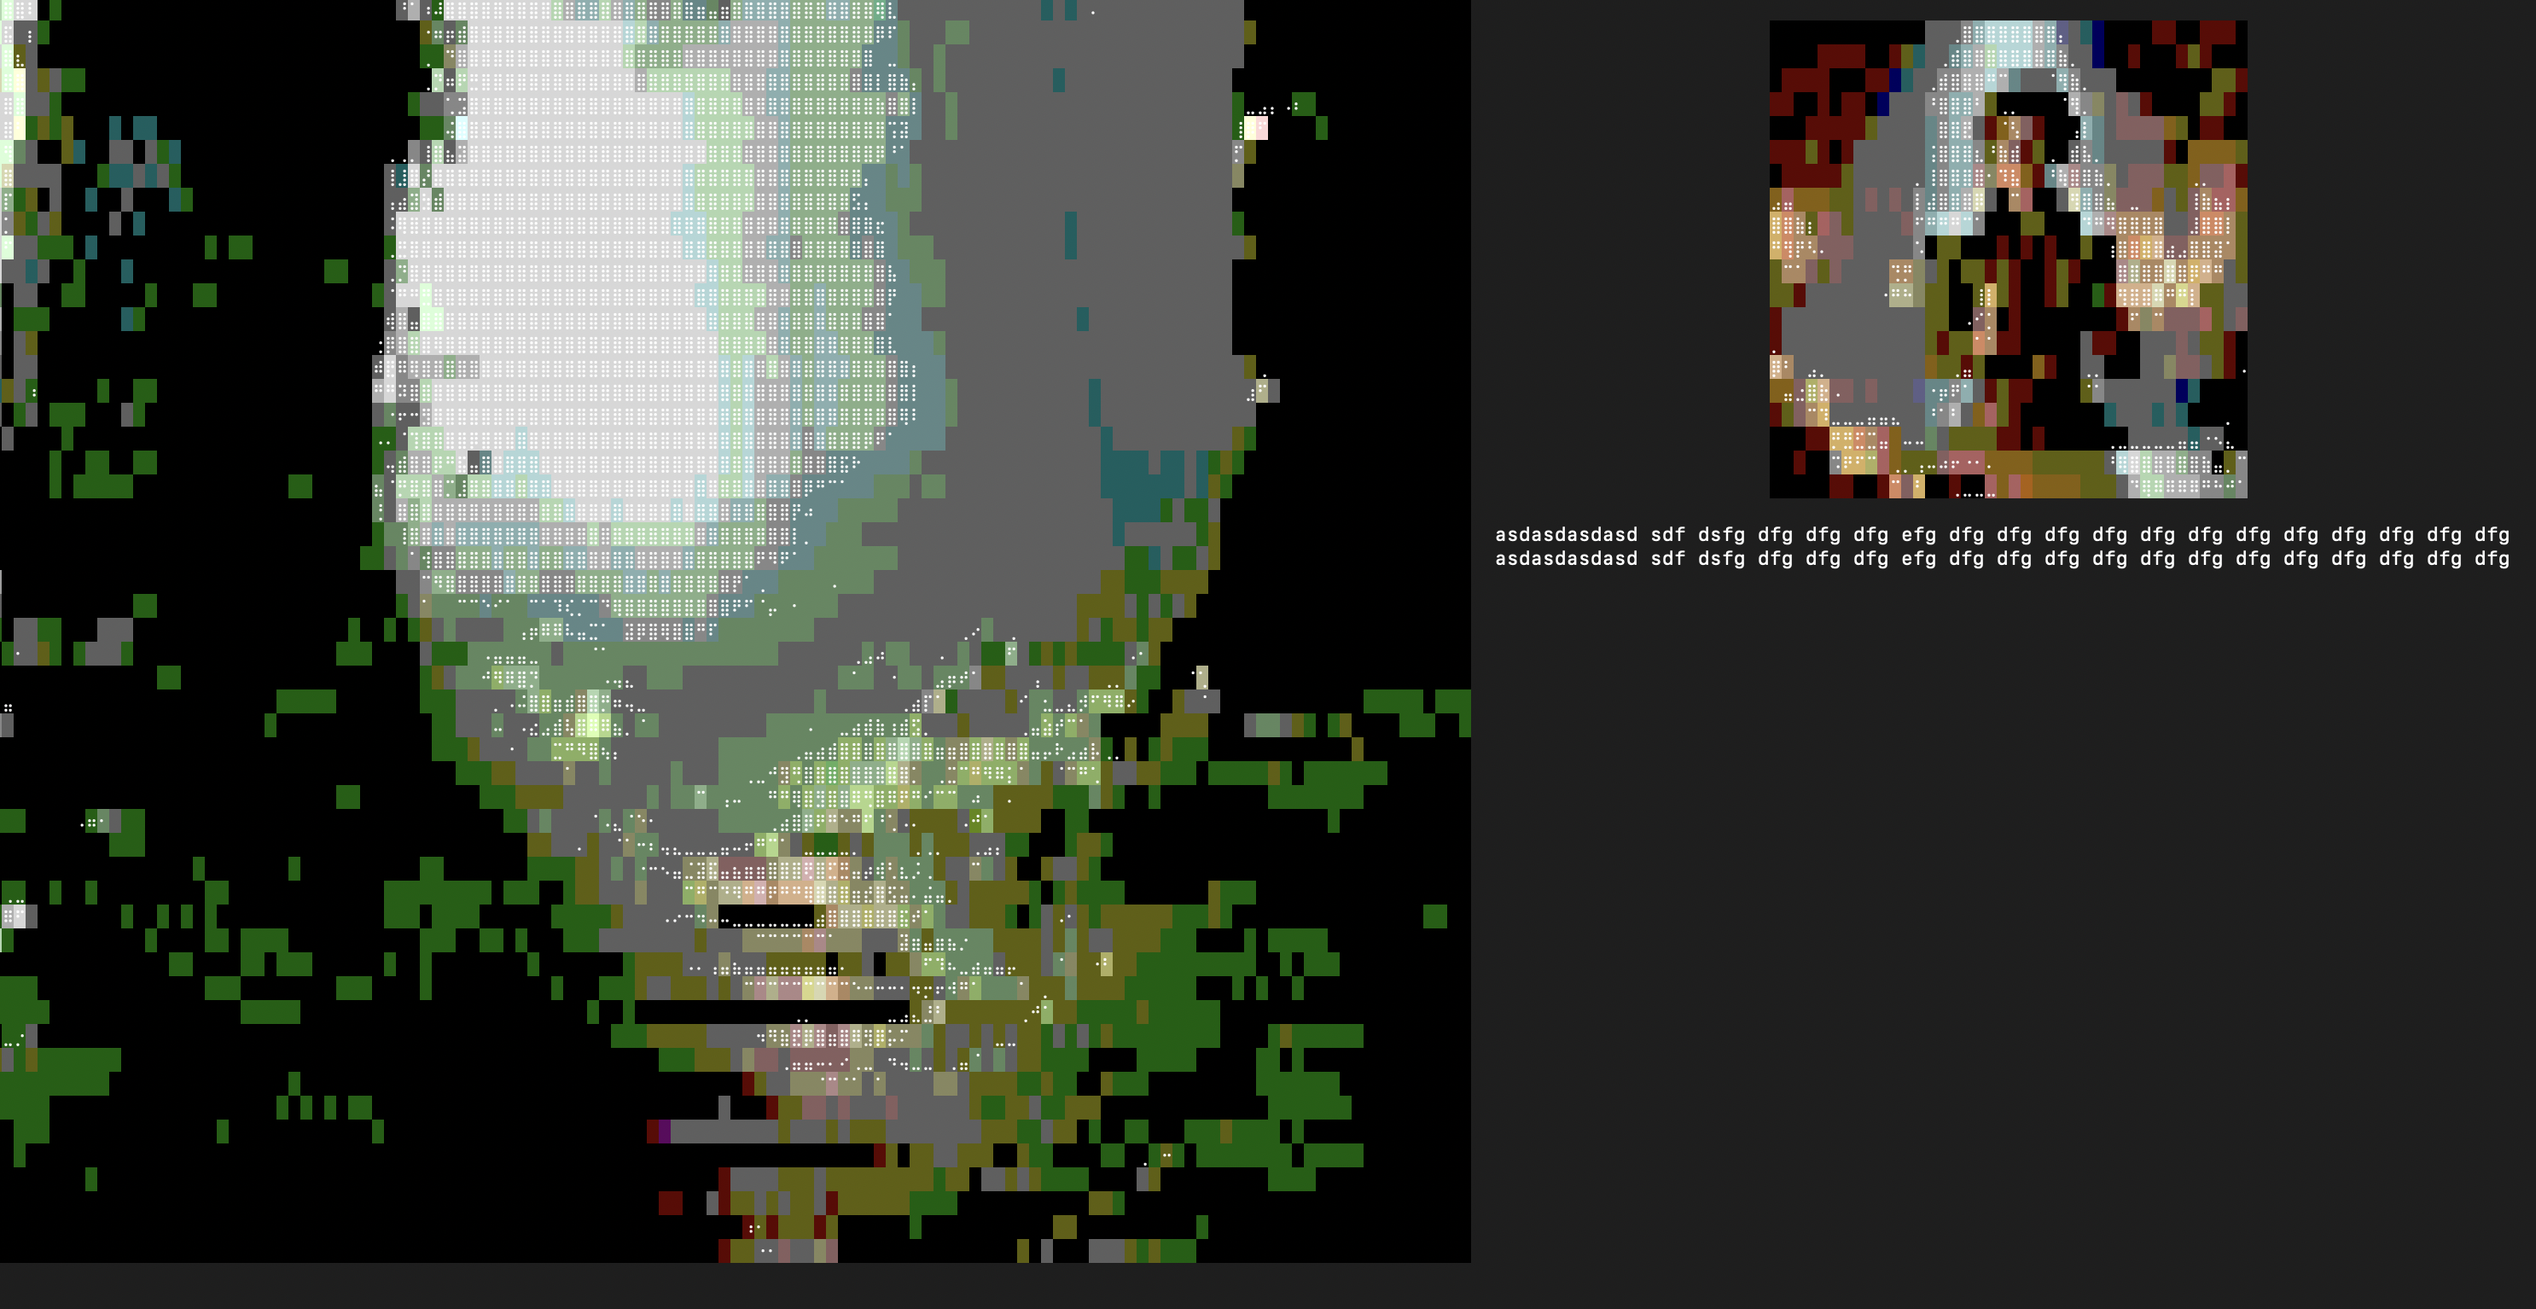
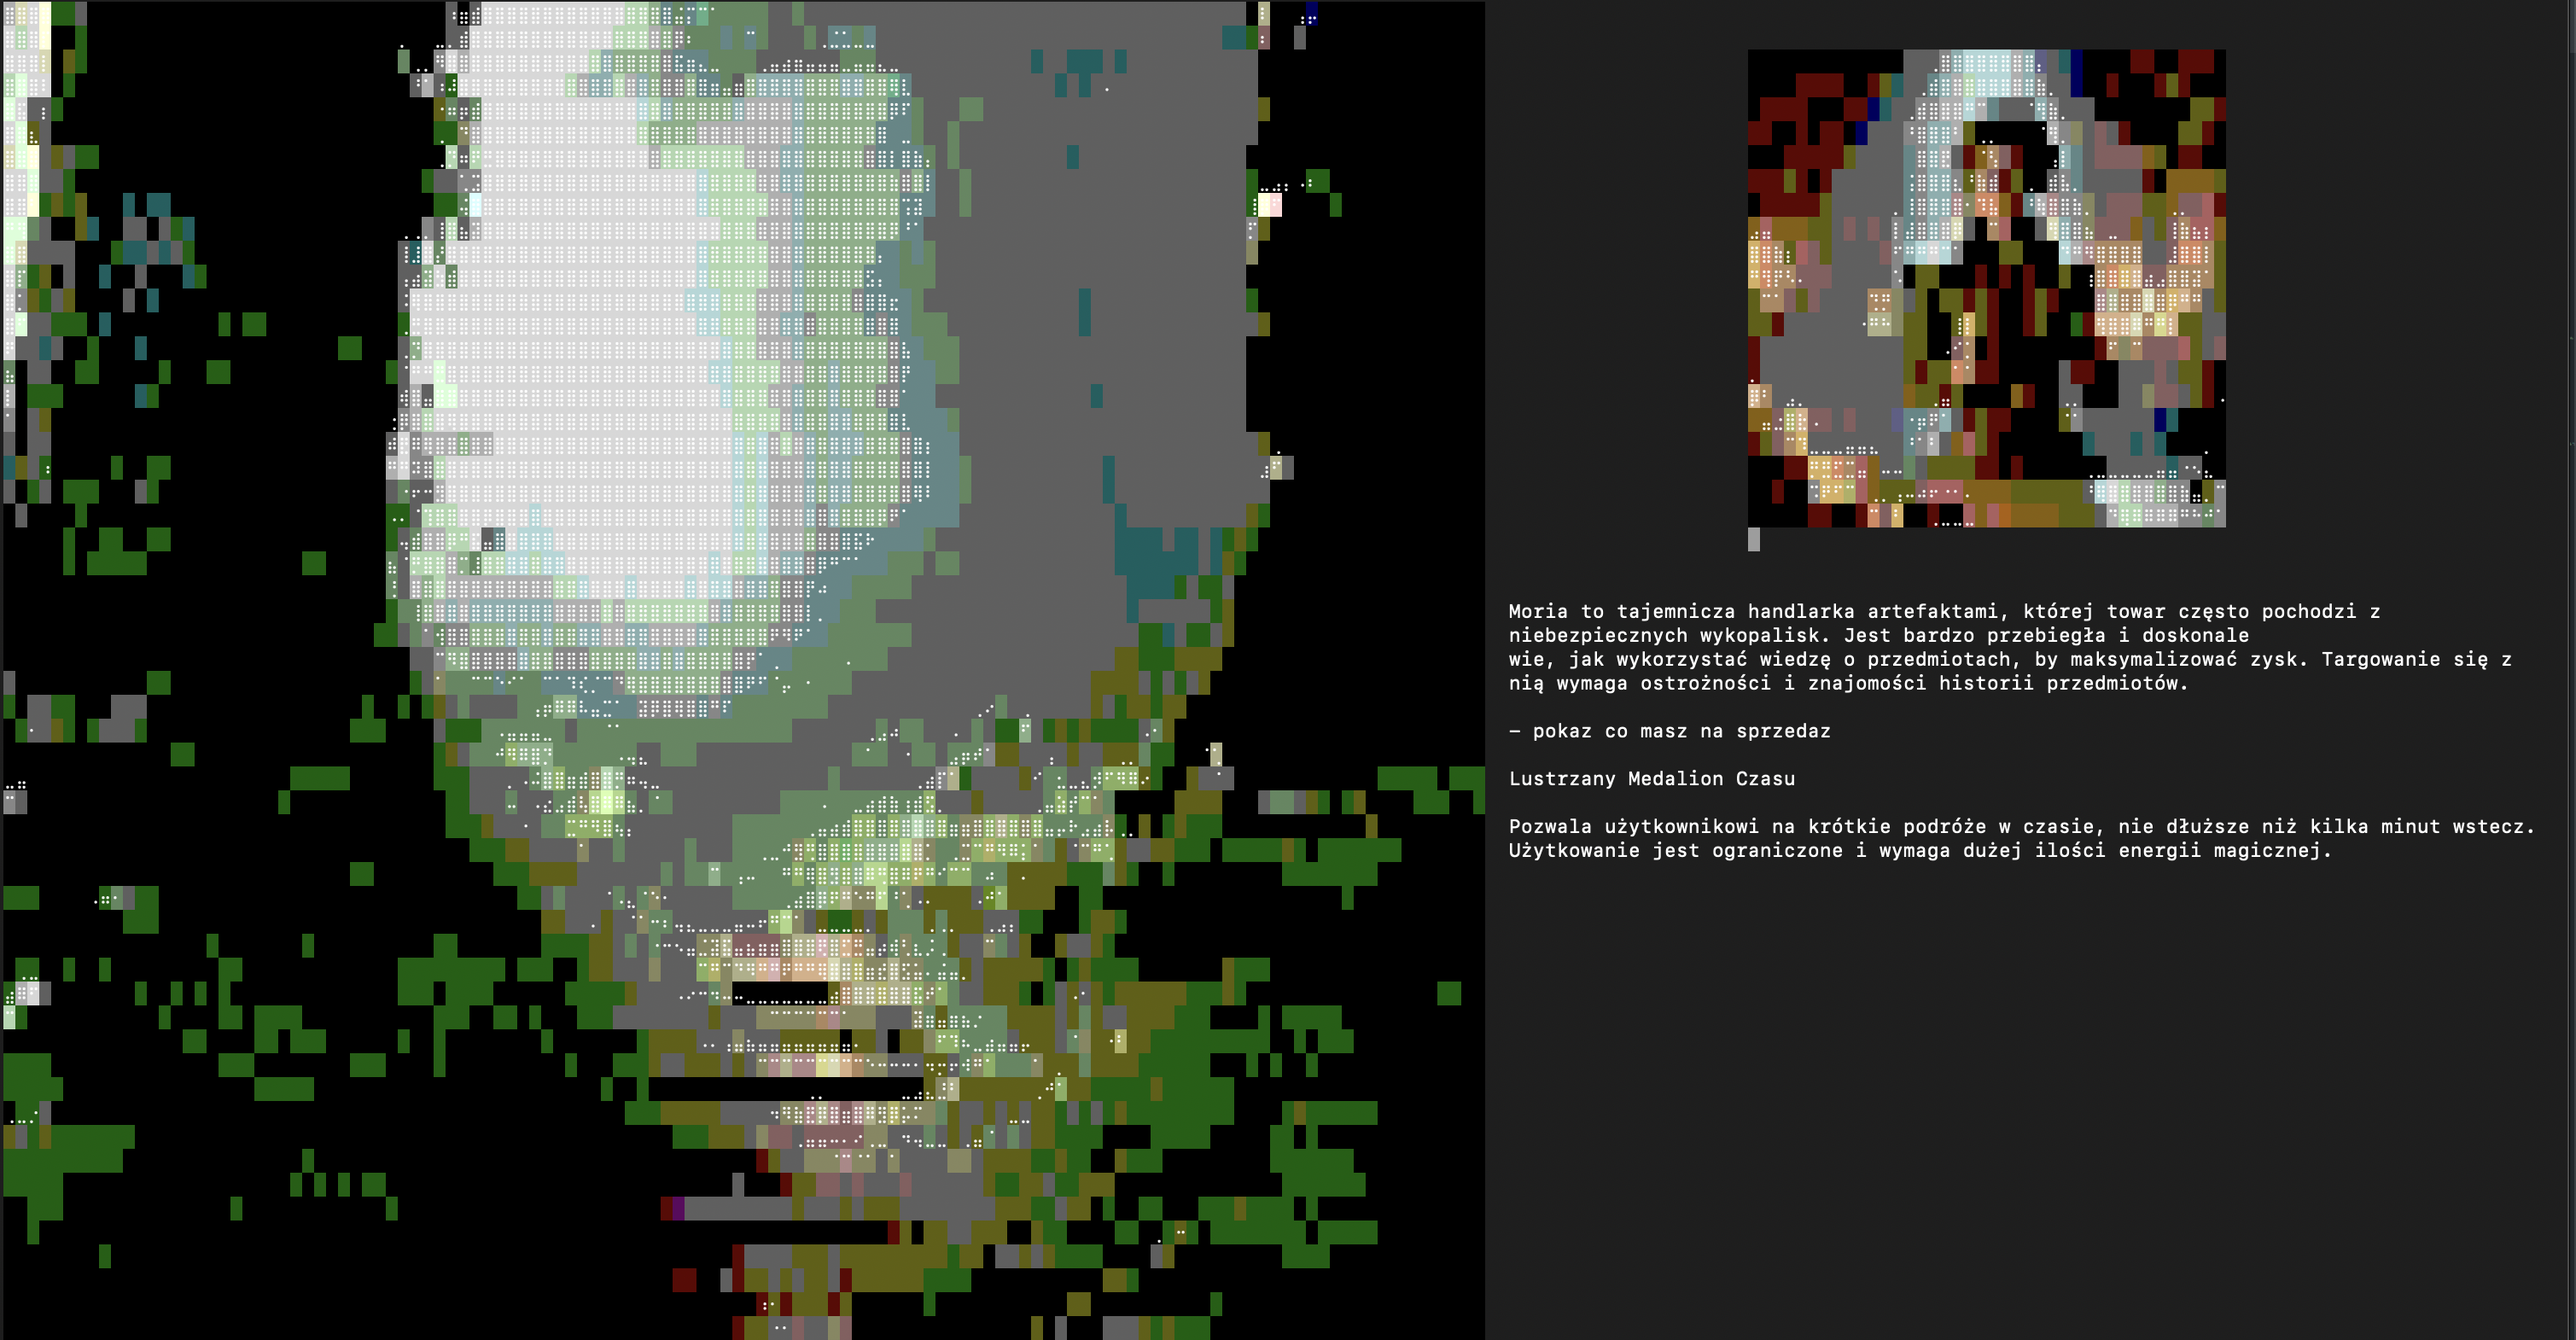
Day 6 - enhance console manager

diff --git a/src/CLI/Console/ConsoleManager.php b/src/CLI/Console/ConsoleManager.php
@@ -10,39 +10,46 @@ use Symfony\Component\Console\Style\SymfonyStyle;
 
 class ConsoleManager
 {
-	private int $screenWidth = 0;
-	private int $screenHeight = 0;
+    private int $screenWidth = 0;
+    private int $screenHeight = 0;
+    private array $buffer;
 
-	public function __construct(
-		private Terminal $terminal,
-		private AsciiArtLoader $asciiArtLoader,
-	)
-	{
-		$this->fetchScreenSize();
-	}
+    public function __construct(
+        private Terminal $terminal,
+        private AsciiArtLoader $asciiArtLoader,
+    ) {
+        $this->initScreen();
+    }
 
-	public function fetchScreenSize(): bool
-	{
-		// TODO: it looks that it is never changing
-		$hasChanged = $this->screenWidth !== $this->terminal->getWidth() ||
-					  $this->screenHeight !== $this->terminal->getHeight();
+    public function initScreen(): bool
+    {
+        // TODO: it looks that it is never changing
+        $hasChanged = $this->screenWidth !== $this->terminal->getWidth() ||
+                      $this->screenHeight !== $this->terminal->getHeight();
 
         if ($hasChanged) {
-        	// TODO: $this->widgets->emit(ConsoleEvents::SCREEN_CHANGED, ScreenChangedEvent($this->screenWidth, $this->screenHeight, $this->terminal->getWidth(), $this->terminal->getHeight()))
+            // TODO: $this->widgets->emit(ConsoleEvents::SCREEN_CHANGED, ScreenChangedEvent($this->screenWidth, $this->screenHeight, $this->terminal->getWidth(), $this->terminal->getHeight()))
         }
 
         $this->screenWidth  = $this->terminal->getWidth();
         $this->screenHeight = $this->terminal->getHeight();
+        $this->buffer       = [];
 
-		return $hasChanged;
-	}
+        for ($x=0; $x < $this->screenWidth; $x++) { 
+            for ($y=0; $y < $this->screenHeight; $y++) { 
+                $this->buffer[$x][$y] = ' ';
+            }
+        }
 
-	public function getChar(): string
-	{
-		// disable blocking: https://www.hashbangcode.com/article/creating-game-php-part-1-detecting-key-inputs
-		stream_set_blocking($stdin, 0);
+        return $hasChanged;
+    }
 
-		// switch terminal mode to raw and turn off echo
+    public function getChar(): string
+    {
+        // disable blocking: https://www.hashbangcode.com/article/creating-game-php-part-1-detecting-key-inputs
+        // TODO: stream_set_blocking($stdin, 0);
+
+        // switch terminal mode to raw and turn off echo
         system('stty cbreak -echo');
 
         // read character
@@ -52,77 +59,87 @@ class ConsoleManager
         system('stty cooked echo');
 
         return $key;
-	}
+    }
 
-	public function setRawTerminalMode(bool $state): void
-	{
-		$process = new Process([
-			'stty',
-			$state ? 'cbreak' : 'cooked',
-			$state ? '-echo' : 'echo',
-		]);
-		$process->run();
-	}
+    public function setRawTerminalMode(bool $state): void
+    {
+        $process = new Process([
+            'stty',
+            $state ? 'cbreak' : 'cooked',
+            $state ? '-echo' : 'echo',
+        ]);
+        $process->run();
+    }
 
-	public function loop($input, $output)
-	{
-		$cursor = new Cursor($output);
-		// TODO: asset manager
-		$forest = $this->asciiArtLoader->loadArt('forest1');
-		$npc    = $this->asciiArtLoader->loadArt('npc1');
+    public function loop($input, $output)
+    {
+        $cursor = new Cursor($output);
+        // TODO: asset manager
+        $forest = $this->asciiArtLoader->loadArt('forest1');
+        $npc    = $this->asciiArtLoader->loadArt('npc1');
 
         $io = new SymfonyStyle($input, $output);
-        $lastChar = 0;
-		do {
-			$output->write(sprintf("\033\143"));
+        $lastChar = "Moria to tajemnicza handlarka artefaktami, której towar często pochodzi z\nniebezpiecznych wykopalisk. Jest bardzo przebiegła i doskonale\nwie, jak wykorzystać wiedzę o przedmiotach, by maksymalizować zysk. Targowanie się z\nnią wymaga ostrożności i znajomości historii przedmiotów."."\n\n";
+        do {
+            $output->write(sprintf("\033\143"));
 
-	        $io->writeln($forest);
+            $io->writeln($forest);
 
-			//$this->terminal->clear();
-			$this->fetchScreenSize();
+            //$this->terminal->clear();
+            $this->initScreen();
 
-			$cursor->moveToPosition($this->screenWidth/2 + 20, 25);
-			$output->write($lastChar);
+            $cursor->moveToPosition($this->screenWidth / 2 + 20, 25);
+            $lines = explode("\n", $lastChar);
+            if (count($lines) + 25 >= $this->screenHeight) {
+                //array_shift($lines);
+                unset($lines[0], $lines[1], $lines[2], $lines[3], $lines[4]);
+                $lastChar = join("\n", $lines);
+            }
+            foreach ($lines as $k => $line) {
+                $cursor->moveToPosition($this->screenWidth / 2 + 20, 25 + $k);
+                $output->write($line);
+            }
 
-			$cursor->moveToPosition($this->screenWidth/2 + 60, 50);
-			$this->offsetWrite($output, $cursor, $npc, $this->screenWidth/2 + 40, 2);
+            $cursor->moveToPosition($this->screenWidth / 2 + 60, 50);
+            $this->offsetWrite($output, $cursor, $npc, $this->screenWidth / 2 + 40, 2);
 
-			// TODO: $this->drawWidgets();
-			$char = $this->getChar();
+            // TODO: $this->drawWidgets();
+            $char = $this->getChar();
 
-			if (ord($char) === 10) {
-				$lastChar .= str_repeat(' ', $this->screenWidth/2 + 60);
-			}
+            if (ord($char) === 10) {
+                $lastChar .= "\n\nLustrzany Medalion Czasu\n\nPozwala użytkownikowi na krótkie podróże w czasie, nie dłuższe niż kilka minut wstecz.\nUżytkowanie jest ograniczone i wymaga dużej ilości energii magicznej.";
+                //$lastChar .= str_repeat(' ', $this->screenWidth / 2 + 60);
+            }
 
-			$lastChar .= $char;
-			$output->write('|asdasdasd');
-			$this->onKeyPressed($char);
-			//$this->widgets->emit(ConsoleEvents::KEY_PRESSED, new KeyPressedEvent($char));
-		} while (!$this->shoudExit($char));
-	}
+            $lastChar .= $char;
+            //$output->write('|asdasdasd');
+            $this->onKeyPressed($char);
+            //$this->widgets->emit(ConsoleEvents::KEY_PRESSED, new KeyPressedEvent($char));
+        } while (!$this->shoudExit($char));
+    }
 
-	public function onKeyPressed(string $key)
-	{
-		echo 'DEBUG: '.$key.' '.ord($key)."\n";
-		// foreach ($this->getWidgets() as $widget) {
-		// 	$widget->onKeuPressed($key);
-		// }
-	}
+    public function onKeyPressed(string $key)
+    {
+        echo 'DEBUG: '.$key.' '.ord($key)."\n";
+        // foreach ($this->getWidgets() as $widget) {
+        // 	$widget->onKeuPressed($key);
+        // }
+    }
 
-	public function shoudExit($key): bool
-	{
-		return ord($key) === 27;
-	}
+    public function shoudExit($key): bool
+    {
+        return ord($key) === 27;
+    }
 
-	public function offsetWrite($output, $cursor, string $text, int $offsetX = 0, $offsetY = 0): void
-	{
-		$lines = explode("\n", $text);
+    public function offsetWrite($output, $cursor, string $text, int $offsetX = 0, $offsetY = 0): void
+    {
+        $lines = explode("\n", $text);
 
-		foreach ($lines as $k => $line) {
-			$cursor->moveToPosition($offsetX, $offsetY+$k);
-			$output->write($line);
-		}
-	}
+        foreach ($lines as $k => $line) {
+            $cursor->moveToPosition($offsetX, $offsetY + $k);
+            $output->write($line);
+        }
+    }
 
     private function simulateTyping(string $text, int $xOffset, int $yOffset, OutputInterface $output): void
     {
@@ -139,5 +156,4 @@ class ConsoleManager
 
         $output->writeln('');
     }
-
 }

diff --git a/CommitLogs/day-5-chat.md b/CommitLogs/day-5-chat.md
@@ -2,4 +2,12 @@
 
 ## Chat
 
-Dzisiaj planuję dodac obsługę chatu, za pomocą którego będzie obsługiwana cała interakcja w grze.
+Dzisiaj dodałem bardzo wstępny i brzydki PoC dla obsługi chatu, za pomocą którego będzie obsługiwana cała interakcja w grze.
+
+Dialogi zostały wygenerowane przy pomocy Chata GPT. W ciągu kolejnych dniach będę udostkanalał chata oraz obsługę CLI.
+
+Mam zamiar dodac buffer ekranu, mam nadzieję że to pozwoli wyeliminowa glitche powstające podczas odświeżania ekranu.
+
+Będę też eksperymentował z pobieraniem znaków z konsoli bez blokowania contextu.
+
+Po przygotowaniu zadawalającej i działającej obsługi CLI zacznę sprzątanie kodu. W fazie obecnej jest to nadal PoC.

diff --git a/Ideas/idea1-enhance-ascii-art.md b/Ideas/idea1-enhance-ascii-art.md
@@ -1,0 +1,12 @@
+Generujemy ascii z różnymi parametrami.
+
+Tworzymy prompta za pomocą dalee do tworzenia promptów i obrazkow.
+
+Bierzemy kluczowe elementy z prompta. Pytamy o ich znaczenie chata. Niech poda skalę od 1 do 10.
+
+Pytamy chata gpt / mini gtp-4 o to, co widzi na obrazku.
+
+Tworzymy ASCII z różnymi ustawieniami ascii-image-converter oraz próbujemy różnych filtrów przed zmianą na ASCII art.
+
+Porównujemy scoring róznych wariantów i wybieramy najlepszy.
+

diff --git a/CommitLogs/day-6-enhance-console-manager.md b/CommitLogs/day-6-enhance-console-manager.md
@@ -1,0 +1,5 @@
+# Dzień 6
+
+## Usprawnienie Console Manager
+
+Dzisiaj planuję usprawnic Console Manager. Mam już rozpisany plan oraz wstępne fragmenty kodu.
